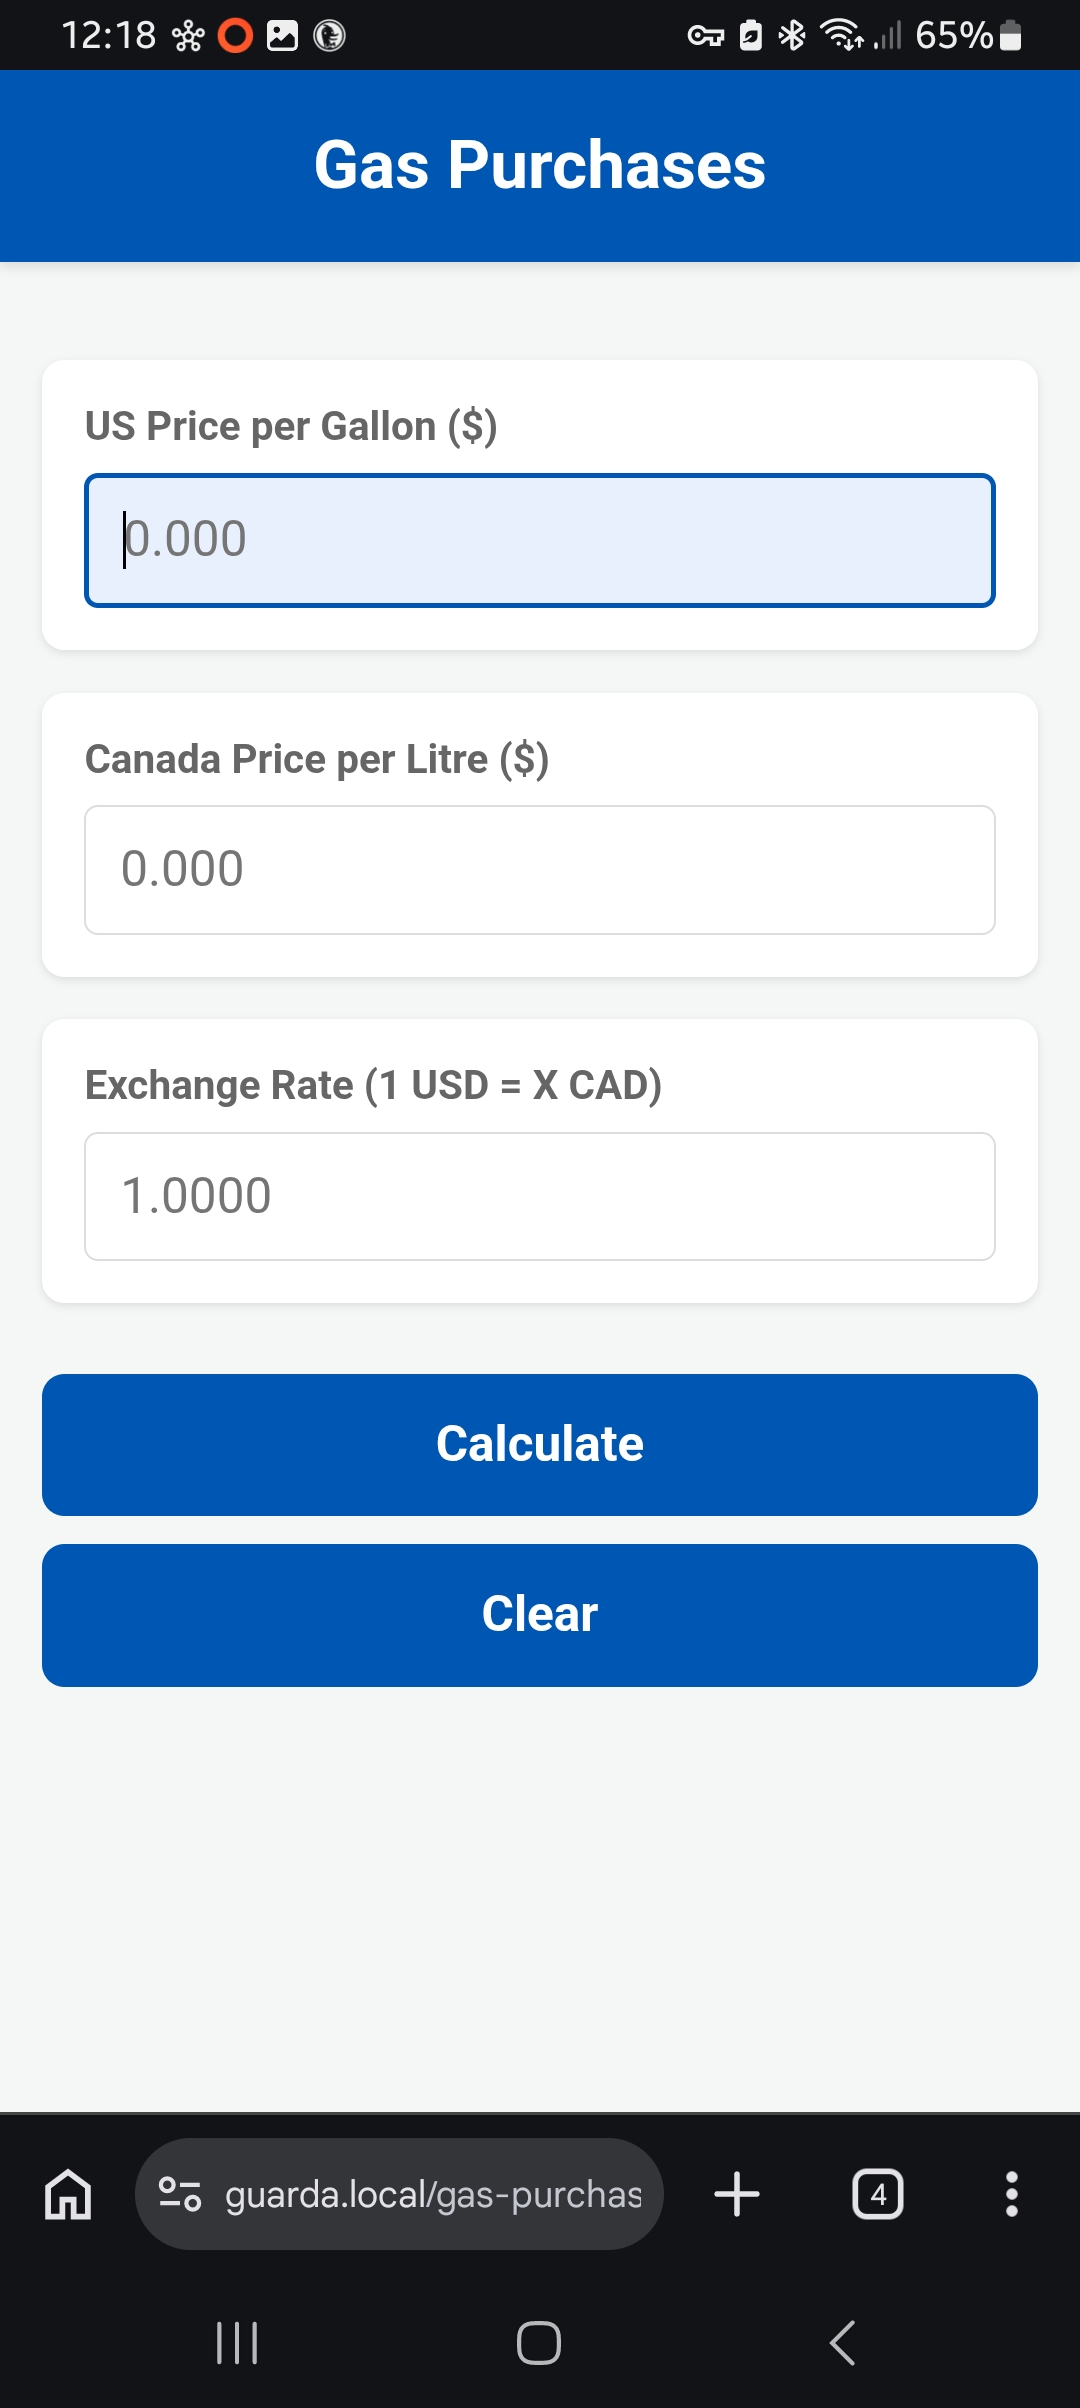
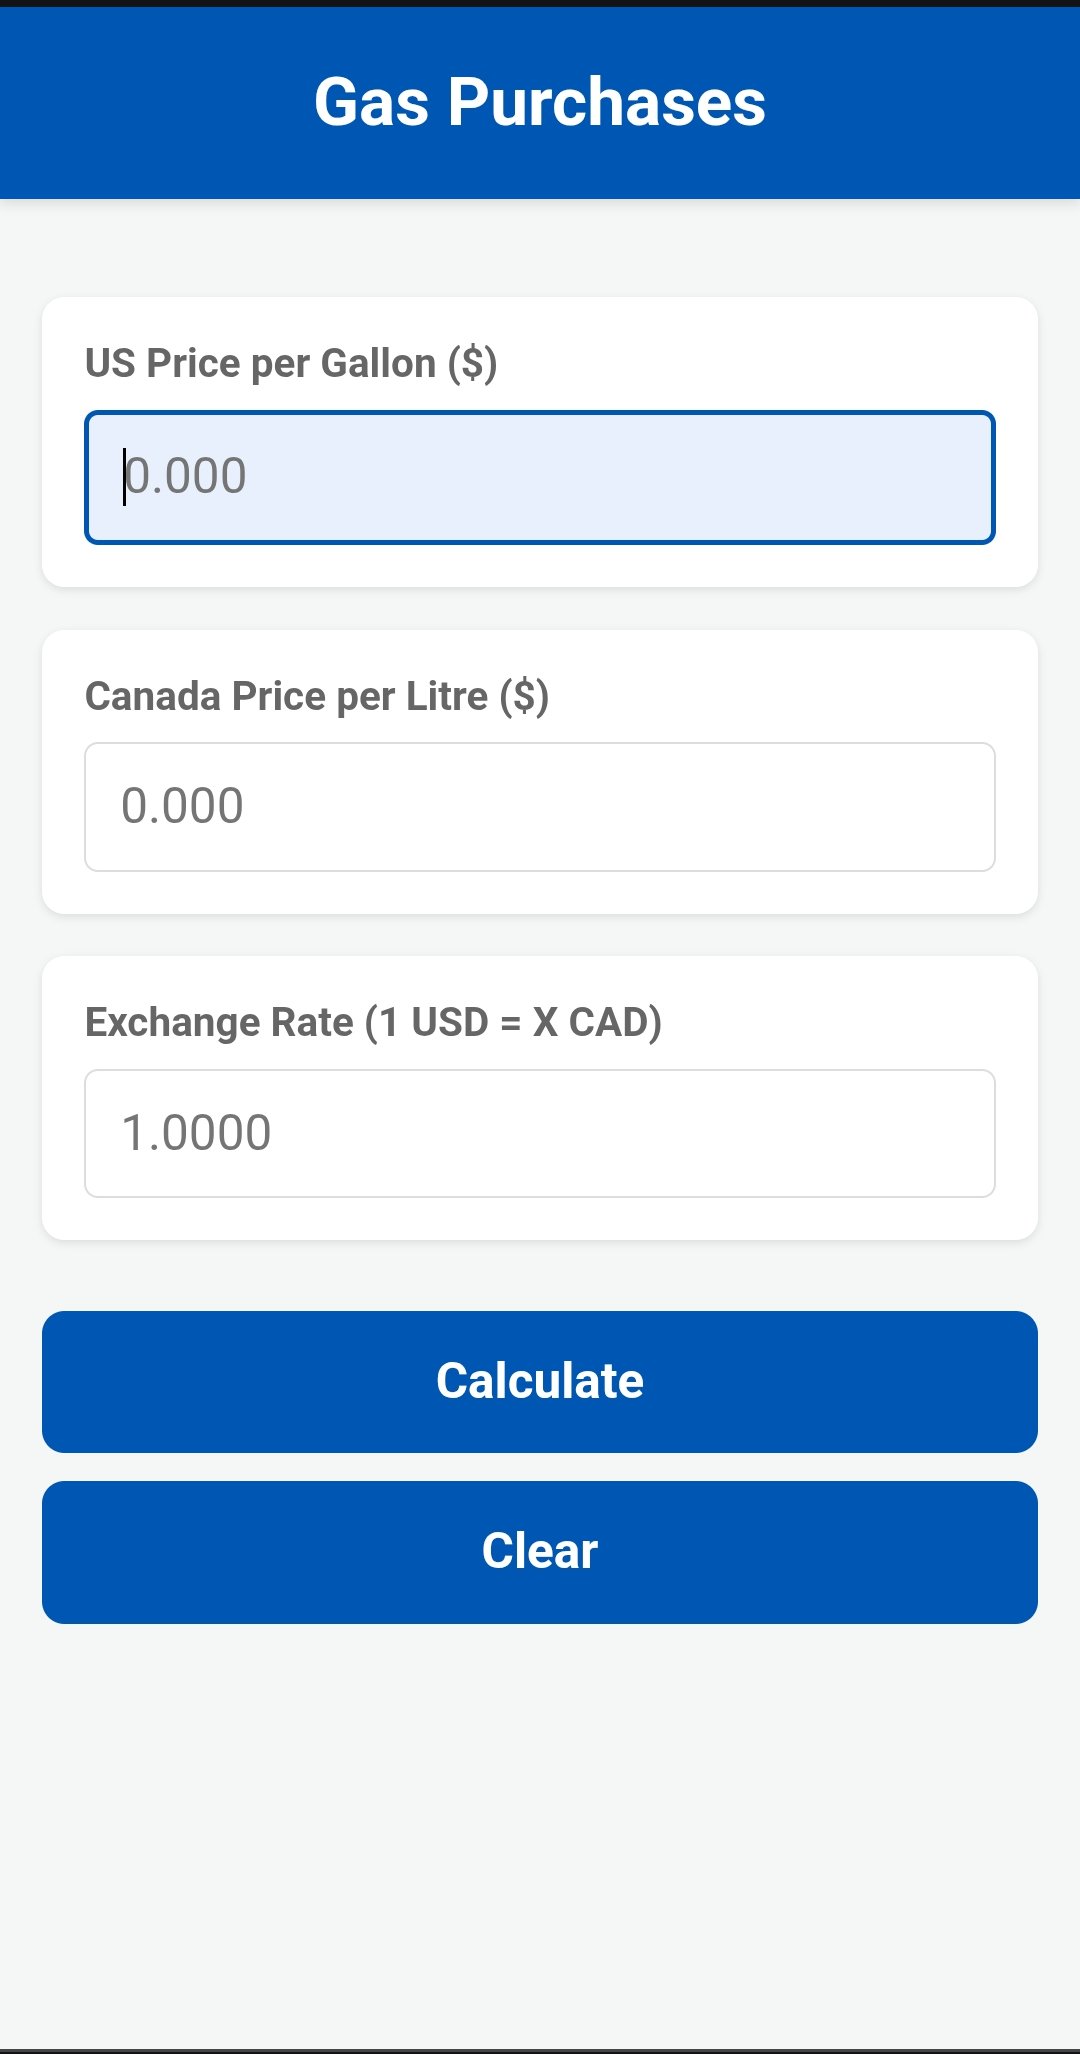
minor fixes

diff --git a/index.html b/index.html
@@ -11,7 +11,10 @@
 </head>
 
 <body>
-    <h1>Gas Purchases</h1>
+    <header>
+        <h1>Gas Purchases</h1>
+        <div class="app_ver"></div>
+    </header>
     <div class="content">
         <div class="input-group">
             <label for="usPrice">US Price per Gallon ($)</label>
@@ -32,6 +35,9 @@
 
         <button onclick="clearForm()">Clear</button>
     </div>
+    <footer>
+        Copyright <div id="year"></div>
+    </footer>
 </body>
 
 </html>

diff --git a/README.md b/README.md
@@ -6,7 +6,7 @@ This project solves a recurring problem for cross-border travel: comparing fluct
 
 ## Changes
 
-version 1.22 - I have added functionality with a **Clear** button. I am trying to streamline the calculations.
+version 1.2 - I have added functionality with a **Clear** button. I am trying to streamline the calculations.
 
 ## The Problem
 > I buy gasoline in the USA once a week. The price has been fluctuating. I know the conversion between US gallon and a litre. I see the exchange rate on my credit card. I would like to be able to plug in the Canadian price and have it give me the equivalent US price, and vice versa. 